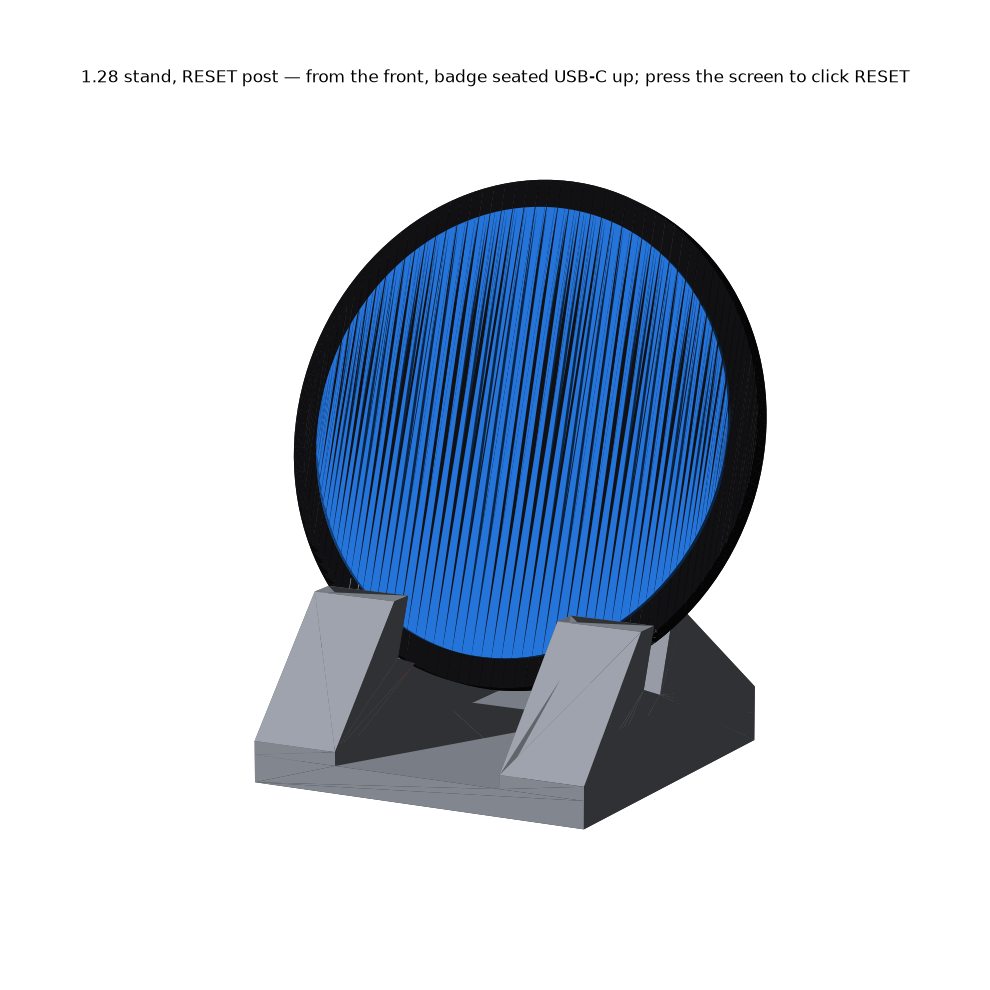
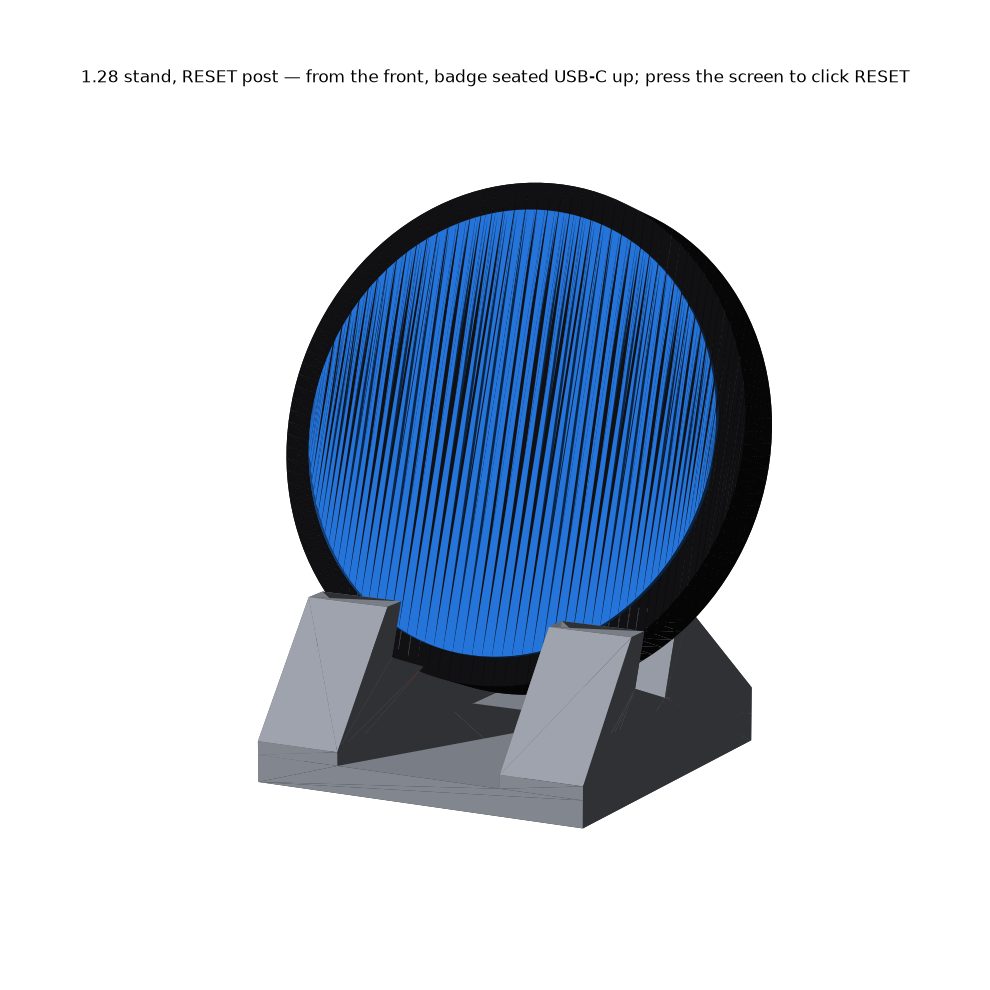
1.28 groove 5.0 mm from the fit gauge: display module makes the rim ~4.7 thick

Changed region(s): [[0.2727, 0.1818, 0.7879, 0.7576], [0.2424, 0.7273, 0.2727, 0.7879], [0.7576, 0.697, 0.7879, 0.7273]]

diff --git a/build_stands.py b/build_stands.py
@@ -138,8 +138,8 @@ BOARDS = {
     "1.28": dict(
         group = "stand",
         label   = "ESP32-S3-LCD-1.28 (SKU 26541)",
-        board_d = 36.5, thick = 1.6, screen_d = 32.4,
-        gap = 1.6+1.1, lean = 20, depth = 5.0,   # +0.8 printed too tight (09-18)
+        board_d = 36.5, thick = 4.7, screen_d = 32.4,   # PCB + display module at the rim (gauge, 09-18)
+        gap = 5.0, lean = 20, depth = 5.0,             # the fit-gauge slot it drops into; fit already in it
         base_d = 27.0, base_h = 12.0, front_h = 3.0, back_h = 4.0,
         ridge_half = 2.0, width = 26.0, slot_y = 12.0,
         notch_w = 13.0, notch_floor = 2.0,

diff --git a/docs/PRINT-LOG.md b/docs/PRINT-LOG.md
@@ -15,9 +15,22 @@ Template:
 
 ---
 
+## 2026-09-18 — fit gauge (`fit-gauge_groove-3.0-to-6.5mm.stl`)
+- material / presets: presumed the usual (PETG, ECC2 0.6 / 0.30 mm)
+- result: **printed.** Photo from behind: the 1.28 stands seated in the **5th
+  slot from the narrow end = 5.0 mm** (read by counting walls; the dots weren't
+  visible). The back of the board is bare — **no case**. The thickness at the
+  rim is the round display module on the front of the PCB, which reaches
+  almost to the PCB edge. The earlier "case" reading was wrong.
+- fit numbers to change: 1.28 `gap` 2.7 → **5.0**, `thick` 1.6 → **4.7**
+  (PCB + module, estimated between the 4.5 slot and the 5.0 slot; sets where
+  the button post lands).
+- photo: sent in chat 2026-09-18 (blue gauge on the bamboo desk, board seen from behind).
+
 ## 2026-09-18 — 1.28 button-post stand, second report (photo)
 - result: **still too narrow.** Photo: the badge rests *on top of* the groove,
-  it does not enter it. The photo shows why — his 1.28 is **in a case**: black
+  it does not enter it. *(Read at the time as a case — wrong, see the gauge
+  entry above: it is the display module.)* Seen in the photo: black
   glass, white serrated gasket, a dark bezel ring, a dark back plate, and white
   button nubs sticking out of the rim. The rim is several mm thick, not the
   1.6 mm bare PCB the stand was designed for. The 2.4 → 2.7 widening was

diff --git a/BOARDS.md b/BOARDS.md
@@ -13,6 +13,7 @@ Non-touch, GC9A01 driver. This is the board from Waveshare order
 |---|---|
 | PCB outline | **round, R 18.25 → Ø 36.5 mm** |
 | PCB thickness | 1.6 mm (standard 2-layer; not stated on the drawing) |
+| **thickness at the rim** | **~4.7 mm** — the display module on the front reaches almost to the PCB edge. Measured with the fit gauge 09-18: drops into the 5.0 slot. |
 | flat chord | 18.37 mm wide, at the top |
 | USB-C | 12.81 mm wide, sits on the chord, **inserts sideways/upward** |
 | active display | **Ø 32.4 mm**, 240 × 240 |
@@ -68,8 +69,8 @@ The screen ratio 36.96 / 32.40 = 1.141 matches the name ratio 1.46 / 1.28 =
 1.141 exactly, which is a useful cross-check that both drawings were read right.
 
 So the 1.46 is a **17 % wider PCB** — noticeable, not dramatic. The real
-difference is depth. And note the 1.28's 1.6 mm is the *bare PCB rim*, which is
-all the groove ever grips; its assembled height with headers and USB-C is far
+difference is depth. And note the 1.28's 1.6 mm is the *bare PCB* — **wrong for the groove**: the
+display module sits on the rim too, ~4.7 mm total (09-18 fit gauge); its assembled height with headers and USB-C is far
 more than that. The 1.46's 12.30 mm, by contrast, is the whole stack, because
 its glass and PCB are laminated into one puck.
 

diff --git a/README.md b/README.md
@@ -10,7 +10,7 @@ flexes, no fasteners.
 
 | board | stand | groove | notch | screen top | material |
 |---|---|---|---|---|---|
-| ESP32-S3-LCD-1.28 (SKU 26541) | [`stl/esp32-s3-lcd-1.28_board-36.5mm_stand.stl`](stl/esp32-s3-lcd-1.28_board-36.5mm_stand.stl) | 2.7 × 5 mm | 13 mm | 41.6 mm | 4.6 g |
+| ESP32-S3-LCD-1.28 (SKU 26541) | [`stl/esp32-s3-lcd-1.28_board-36.5mm_stand.stl`](stl/esp32-s3-lcd-1.28_board-36.5mm_stand.stl) | 5.0 × 5 mm | 13 mm | 41.6 mm | 4.6 g |
 | ESP32-S3-Touch-LCD-1.46, cover glass | [`stl/esp32-s3-touch-lcd-1.46-coverglass_board-44.77mm_stand.stl`](stl/esp32-s3-touch-lcd-1.46-coverglass_board-44.77mm_stand.stl) | 13.1 × 8 mm | 14 mm | 50.6 mm | 8.9 g |
 | ESP32-S3-Touch-LCD-1.46, bare | [`stl/esp32-s3-touch-lcd-1.46-bare_board-42.58mm_stand.stl`](stl/esp32-s3-touch-lcd-1.46-bare_board-42.58mm_stand.stl) | 11.5 × 8 mm | 14 mm | 48.5 mm | 8.2 g |
 

diff --git a/CLAUDE.md b/CLAUDE.md
@@ -25,7 +25,8 @@ link-checks the docs. Run it before any commit that touches geometry.
 
 Full tables in `BOARDS.md`. The ones that change designs:
 
-- **1.28** (SKU 26541, non-touch): round PCB **Ø36.5**, 1.6 thick. USB-C on the
+- **1.28** (SKU 26541, non-touch): round PCB **Ø36.5**, 1.6 PCB but **~4.7 thick at the rim**
+  with the display module (fit gauge, 09-18) — the groove is 5.0. USB-C on the
   flat top chord. BOOT lower-left / RESET lower-right *seen from the back*, at
   r ≈ 12.5 mm — positions measured, overlay in `reference/`.
 - **1.46 Touch** ships in two parts: **cover glass Ø44.77 / 12.30 thick** or

diff --git a/docs/DESIGN.md b/docs/DESIGN.md
@@ -67,6 +67,11 @@ was slightly too small. Fit 0.8 → 1.1; shared with the plain 1.28 stand.
 rim is several mm thick, not 1.6. Fit gauge printed to measure it; the groove
 gets the gauge's number, not another guess.
 
+**1.28 groove 5.0, thick 4.7** (09-18). Gauge photo: no case — the display
+module itself reaches the rim. Drops into the 5.0 slot. `thick` 4.7 moves the
+button post back to meet the switch. **Open:** `pod/build_pod.py` still seats
+the 1.28 as a 1.6 stack (`seat_t`, `stack`) — fix before printing the pod.
+
 ## Pod
 
 **Cups on a spine, not a box with holes** (09-18, v2). v1 was a rectangular block

diff --git a/PRINTING.md b/PRINTING.md
@@ -175,7 +175,7 @@ with 5 mm pins, and 8 mm pins clear by 8 mm+ everywhere.
 
 ## If the fit is wrong
 
-`fit` — the slop added to the board's thickness — is 0.8 mm on the 1.46s and 1.1 mm on the 1.28 (0.8 printed too tight), and is
+`fit` — the slop added to the board's thickness — is 0.8 mm on the 1.46s; the 1.28's groove is 5.0 mm, measured with the fit gauge. It is
 the only number likely to need touching. A 0.6 mm nozzle tends to come out
 slightly undersized, which is why it starts generous.
 
